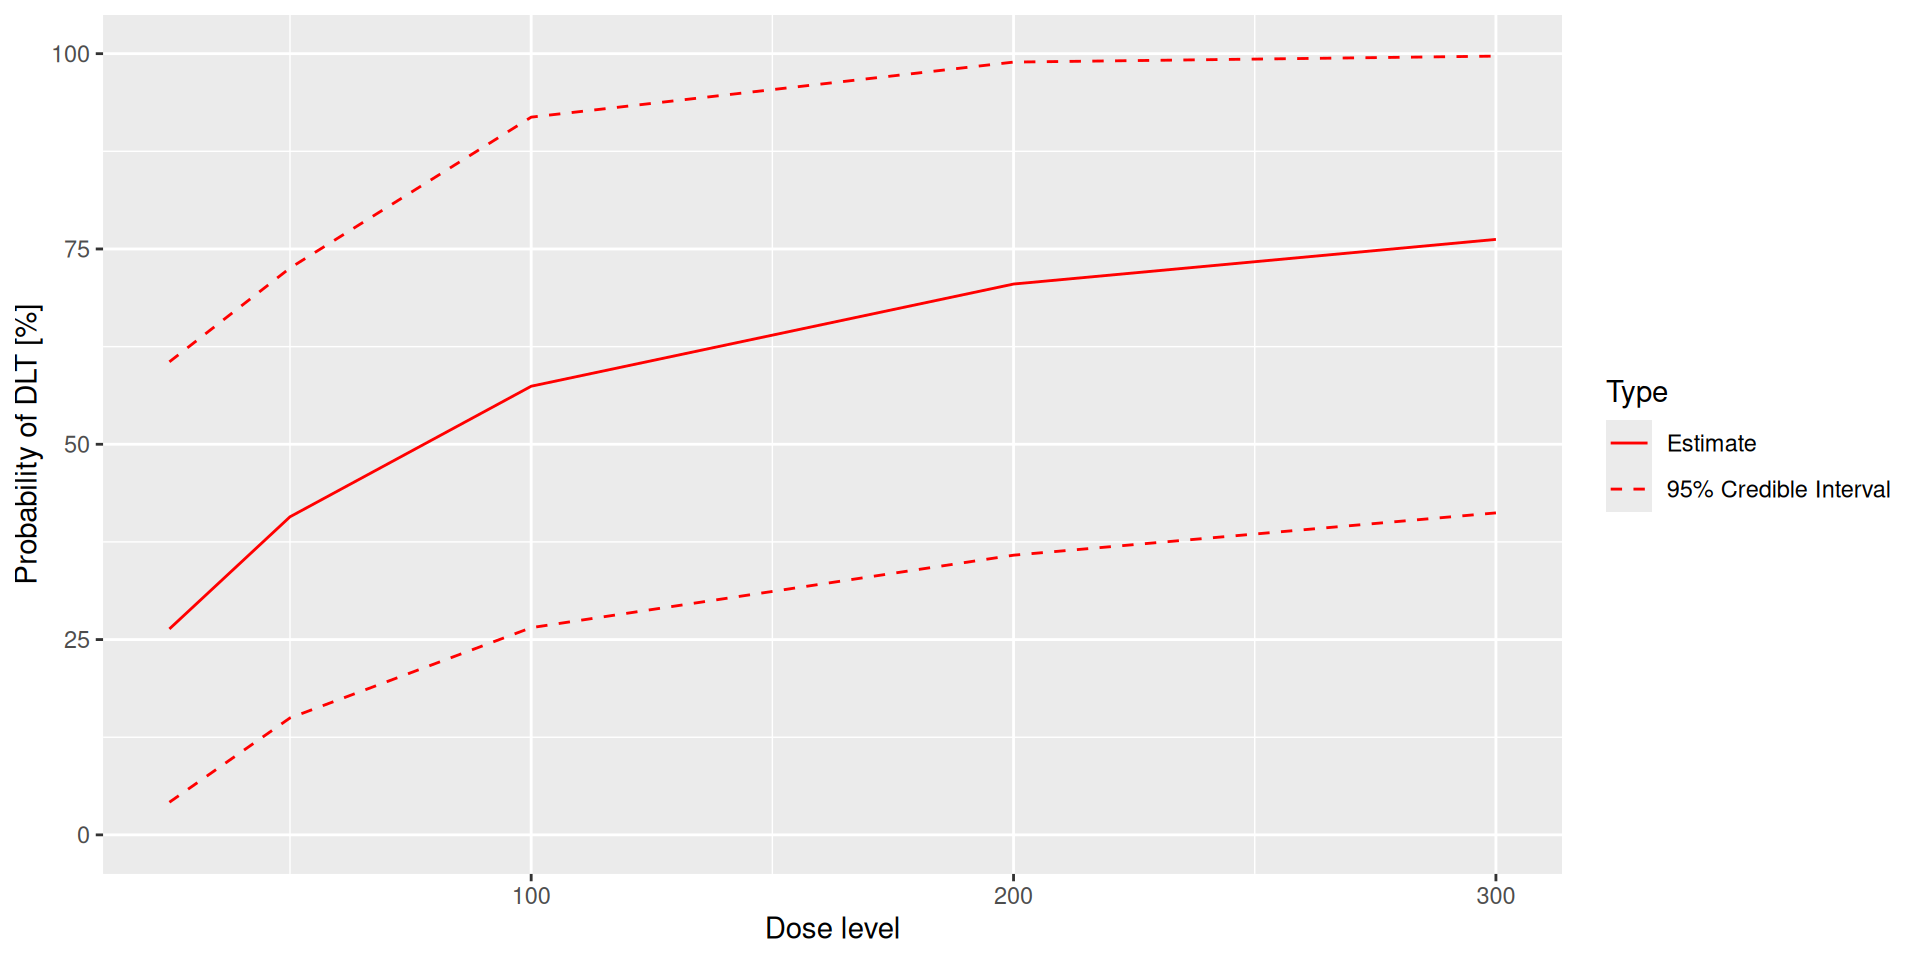
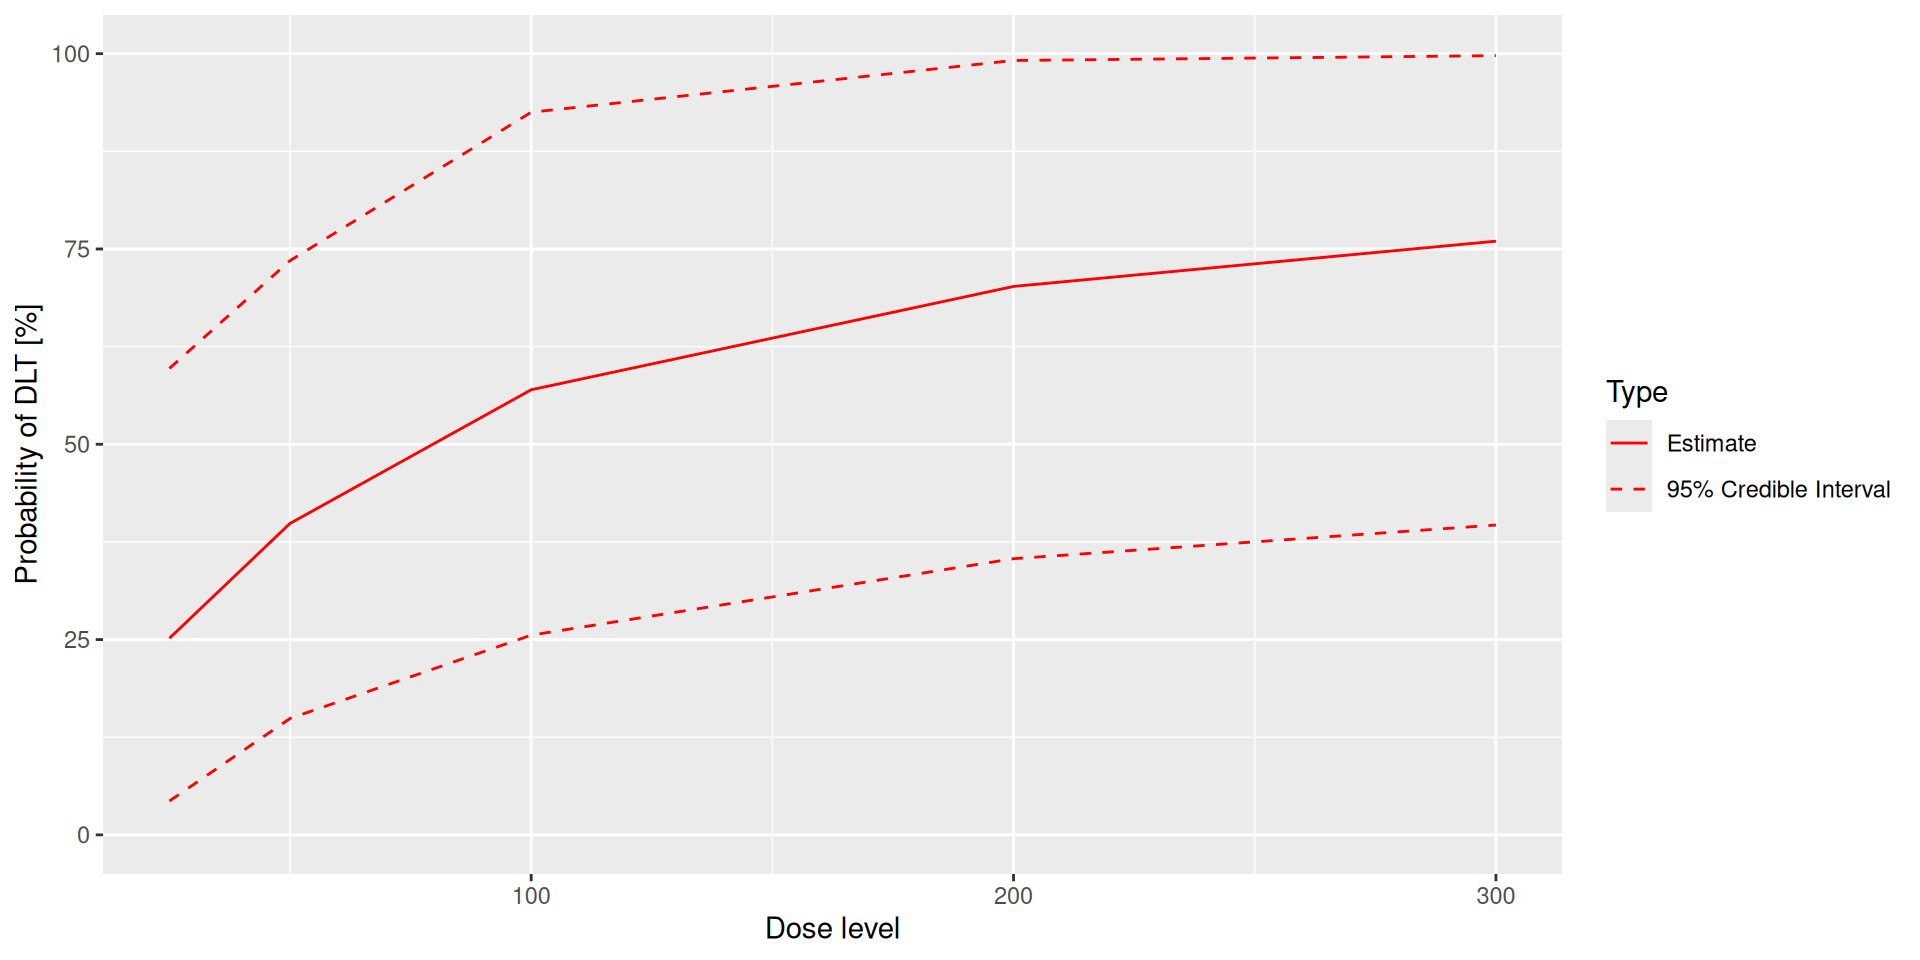
Built site for gh-pages

diff --git a/parts/02_advanced.html b/parts/02_advanced.html
@@ -289,18 +289,16 @@ Daniel Sabanés Bové
 <span id="cb1-9"><a aria-hidden="true" tabindex="-1"></a>  <span class="at">control =</span> <span class="fu">list</span>(<span class="at">max.time =</span> <span class="dv">30</span>) <span class="co"># limit the optimization time here</span></span>
 <span id="cb1-10"><a aria-hidden="true" tabindex="-1"></a>)</span></code></pre></div><button title="Copy to Clipboard" class="code-copy-button"><i class="bi"></i></button></div>
 <div class="cell-output cell-output-stdout">
-<pre><code>It: 1, obj value (lsEnd): 0.07142670344 indTrace: 1
-It: 351, obj value (lsEnd): 0.03540073469 indTrace: 351
-It: 370, obj value (lsEnd): 0.01526062805 indTrace: 370
-It: 377, obj value (lsEnd): 0.01507283033 indTrace: 377
-It: 395, obj value (lsEnd): 0.01445789659 indTrace: 395
-It: 577, obj value (lsEnd): 0.0127023889 indTrace: 577
-timeSpan = 32.113298 maxTime = 30
-Emini is: 0.0127023889
+<pre><code>It: 1, obj value (lsEnd): 0.06732883077 indTrace: 1
+It: 214, obj value (lsEnd): 0.01474025243 indTrace: 214
+It: 238, obj value (lsEnd): 0.01416193999 indTrace: 238
+It: 460, obj value (lsEnd): 0.01295269405 indTrace: 460
+timeSpan = 30.000442 maxTime = 30
+Emini is: 0.01295269405
 xmini are:
--1.280320232 0.6589842054 1.264422506 0.08107323782 0.8768339596 
-Totally it used 32.113324 secs
-No. of function call is: 11250</code></pre>
+-1.280026342 0.6618977116 1.254935046 0.1500300078 0.5608228116 
+Totally it used 30.000481 secs
+No. of function call is: 10147</code></pre>
 </div>
 </div>
 </section>
@@ -339,7 +337,7 @@ No. of function call is: 11250</code></pre>
 <div class="code-copy-outer-scaffold"><div class="sourceCode cell-code" id="cb4"><pre class="sourceCode r code-with-copy"><code class="sourceCode r"><span id="cb4-1"><a aria-hidden="true" tabindex="-1"></a>min_result<span class="sc">$</span>model</span></code></pre></div><button title="Copy to Clipboard" class="code-copy-button"><i class="bi"></i></button></div>
 <div class="cell-output-display">
 <p>A logistic log normal model will describe the relationship between dose and toxicity: <math display="block" xmlns="http://www.w3.org/1998/Math/MathML"><semantics><mrow><mi>p</mi><mrow><mo stretchy="true" form="prefix">(</mo><mi>T</mi><mi>o</mi><mi>x</mi><mo stretchy="false" form="prefix">|</mo><mi>d</mi><mo stretchy="true" form="postfix">)</mo></mrow><mo>=</mo><mi>f</mi><mrow><mo stretchy="true" form="prefix">(</mo><mi>X</mi><mo>=</mo><mn>1</mn><mo stretchy="false" form="prefix">|</mo><mi>θ</mi><mo>,</mo><mi>d</mi><mo stretchy="true" form="postfix">)</mo></mrow><mo>=</mo><mfrac><msup><mi>e</mi><mrow><mi>α</mi><mo>+</mo><mi>β</mi><mo>⋅</mo><mi>l</mi><mi>o</mi><mi>g</mi><mrow><mo stretchy="true" form="prefix">(</mo><mi>d</mi><mi>/</mi><msub><mi>d</mi><mrow><mi>r</mi><mi>e</mi><mi>f</mi></mrow></msub><mo stretchy="true" form="postfix">)</mo></mrow></mrow></msup><mrow><mn>1</mn><mo>+</mo><msup><mi>e</mi><mrow><mi>α</mi><mo>+</mo><mi>β</mi><mo>⋅</mo><mi>l</mi><mi>o</mi><mi>g</mi><mrow><mo stretchy="true" form="prefix">(</mo><mi>d</mi><mi>/</mi><msub><mi>d</mi><mrow><mi>r</mi><mi>e</mi><mi>f</mi></mrow></msub><mo stretchy="true" form="postfix">)</mo></mrow></mrow></msup></mrow></mfrac></mrow><annotation encoding="application/x-tex"> p(Tox | d) = f(X = 1 | \theta, d) = \frac{e^{\alpha + \beta \cdot log(d/d_{ref})}}{1 + e^{\alpha + \beta \cdot log(d/d_{ref})}} </annotation></semantics></math>where d<sub>ref</sub> denotes a reference dose.</p>
-<p>The prior for θ is given by<math display="block" xmlns="http://www.w3.org/1998/Math/MathML"><semantics><mrow><mi>𝛉</mi><mo>=</mo><mrow><mo stretchy="true" form="prefix">[</mo><mtable><mtr><mtd columnalign="center" style="text-align: center"><mi>α</mi></mtd></mtr><mtr><mtd columnalign="center" style="text-align: center"><mi>l</mi><mi>o</mi><mi>g</mi><mrow><mo stretchy="true" form="prefix">(</mo><mi>β</mi><mo stretchy="true" form="postfix">)</mo></mrow></mtd></mtr></mtable><mo stretchy="true" form="postfix">]</mo></mrow><mo>∼</mo><mi>N</mi><mrow><mo stretchy="true" form="prefix">(</mo><mrow><mo stretchy="true" form="prefix">[</mo><mtable><mtr><mtd columnalign="center" style="text-align: center"><mi>−</mi><mn>1.28</mn></mtd></mtr><mtr><mtd columnalign="center" style="text-align: center"><mn>0.66</mn></mtd></mtr></mtable><mo stretchy="true" form="postfix">]</mo></mrow><mo>,</mo><mrow><mo stretchy="true" form="prefix">[</mo><mtable><mtr><mtd columnalign="center" style="text-align: center"><mn>1.60</mn></mtd><mtd columnalign="center" style="text-align: center"><mn>0.09</mn></mtd></mtr><mtr><mtd columnalign="center" style="text-align: center"><mn>0.09</mn></mtd><mtd columnalign="center" style="text-align: center"><mn>0.01</mn></mtd></mtr></mtable><mo stretchy="true" form="postfix">]</mo></mrow><mo stretchy="true" form="postfix">)</mo></mrow></mrow><annotation encoding="application/x-tex"> \boldsymbol\theta = \begin{bmatrix}\alpha \\ log(\beta)\end{bmatrix}\sim N \left(\begin{bmatrix}-1.28 \\  0.66\end{bmatrix} , \begin{bmatrix} 1.60 &amp;  0.09 \\ 0.09 &amp;  0.01\end{bmatrix} \right) </annotation></semantics></math></p>
+<p>The prior for θ is given by<math display="block" xmlns="http://www.w3.org/1998/Math/MathML"><semantics><mrow><mi>𝛉</mi><mo>=</mo><mrow><mo stretchy="true" form="prefix">[</mo><mtable><mtr><mtd columnalign="center" style="text-align: center"><mi>α</mi></mtd></mtr><mtr><mtd columnalign="center" style="text-align: center"><mi>l</mi><mi>o</mi><mi>g</mi><mrow><mo stretchy="true" form="prefix">(</mo><mi>β</mi><mo stretchy="true" form="postfix">)</mo></mrow></mtd></mtr></mtable><mo stretchy="true" form="postfix">]</mo></mrow><mo>∼</mo><mi>N</mi><mrow><mo stretchy="true" form="prefix">(</mo><mrow><mo stretchy="true" form="prefix">[</mo><mtable><mtr><mtd columnalign="center" style="text-align: center"><mi>−</mi><mn>1.28</mn></mtd></mtr><mtr><mtd columnalign="center" style="text-align: center"><mn>0.66</mn></mtd></mtr></mtable><mo stretchy="true" form="postfix">]</mo></mrow><mo>,</mo><mrow><mo stretchy="true" form="prefix">[</mo><mtable><mtr><mtd columnalign="center" style="text-align: center"><mn>1.57</mn></mtd><mtd columnalign="center" style="text-align: center"><mn>0.11</mn></mtd></mtr><mtr><mtd columnalign="center" style="text-align: center"><mn>0.11</mn></mtd><mtd columnalign="center" style="text-align: center"><mn>0.02</mn></mtd></mtr></mtable><mo stretchy="true" form="postfix">]</mo></mrow><mo stretchy="true" form="postfix">)</mo></mrow></mrow><annotation encoding="application/x-tex"> \boldsymbol\theta = \begin{bmatrix}\alpha \\ log(\beta)\end{bmatrix}\sim N \left(\begin{bmatrix}-1.28 \\  0.66\end{bmatrix} , \begin{bmatrix} 1.57 &amp;  0.11 \\ 0.11 &amp;  0.02\end{bmatrix} \right) </annotation></semantics></math></p>
 <p>The reference dose will be 100.00.</p>
 </div>
 </div>
@@ -540,7 +538,7 @@ N (
 <div class="cell">
 <div class="code-copy-outer-scaffold"><div class="sourceCode cell-code" id="cb19"><pre class="sourceCode r code-with-copy"><code class="sourceCode r"><span id="cb19-1"><a aria-hidden="true" tabindex="-1"></a><span class="fu">mean</span>(samples_share<span class="sc">@</span>data<span class="sc">$</span>comp <span class="sc">==</span> <span class="dv">2</span>)</span></code></pre></div><button title="Copy to Clipboard" class="code-copy-button"><i class="bi"></i></button></div>
 <div class="cell-output cell-output-stdout">
-<pre><code>[1] 0.573</code></pre>
+<pre><code>[1] 0.5825</code></pre>
 </div>
 </div>
 </section>
@@ -859,7 +857,7 @@ Neuenschwander, B, M Branson, and T Gsponer. 2008. <span>“Critical Aspects of 
         }
           var localhostRegex = new RegExp(/^(?:http|https):\/\/localhost\:?[0-9]*\//);
           var mailtoRegex = new RegExp(/^mailto:/);
-            var filterRegex = new RegExp("https:\/\/crmpack-training\.merck\.2026\.rpact\.com");
+            var filterRegex = new RegExp("https:\/\/merck\.training\.2026\.crmpack\.org");
           var isInternal = (href) => {
               return filterRegex.test(href) || localhostRegex.test(href) || mailtoRegex.test(href);
           }

diff --git a/parts/01_basic.html b/parts/01_basic.html
@@ -718,18 +718,22 @@ Inf
 10   20    1       20 FALSE         0
 11   20    2       20 FALSE         0
 12   20    3       10 FALSE       -50
-13   30    0       60 FALSE       100
+13   30    0       40 FALSE        33
 14   30    1       30 FALSE         0
 15   30    2       20 FALSE       -33
 16   30    3       20 FALSE       -33
-17   60    0      120 FALSE       100
-18   60    1       50 FALSE       -17
-19   60    2       40 FALSE       -33
-20   60    3       30 FALSE       -50
-21  120    0      200 FALSE        67
-22  120    1      140 FALSE        17
-23  120    2       70 FALSE       -42
-24  120    3       50 FALSE       -58</code></pre>
+17   40    0       80 FALSE       100
+18   40    1       40 FALSE         0
+19   40    2       30 FALSE       -25
+20   40    3       20 FALSE       -50
+21   80    0      150 FALSE        88
+22   80    1       80 FALSE         0
+23   80    2       50 FALSE       -38
+24   80    3       40 FALSE       -50
+25  150    0      200 FALSE        33
+26  150    1      140 FALSE        -7
+27  150    2       90 FALSE       -40
+28  150    3       60 FALSE       -60</code></pre>
 </div>
 </div>
 <p>Here it could be also concerning that if we observe 3 DLTs at the starting dose of 5, we still continue with the same dose 5 for the next cohort. The reason here is that the prior is “too confident” that at low doses we have a low DLT probability.</p>
@@ -760,26 +764,22 @@ Inf
 14   20    1       20 FALSE         0
 15   20    2       20 FALSE         0
 16   20    3       10 FALSE       -50
-17   20    0       20 FALSE         0
+17   20    0       30 FALSE        50
 18   20    1       20 FALSE         0
 19   20    2       20 FALSE         0
 20   20    3       20 FALSE         0
-21   20    0       30 FALSE        50
-22   20    1       20 FALSE         0
-23   20    2       20 FALSE         0
-24   20    3       20 FALSE         0
-25   30    0       60 FALSE       100
-26   30    1       30 FALSE         0
-27   30    2       20 FALSE       -33
-28   30    3       20 FALSE       -33
-29   60    0      120 FALSE       100
-30   60    1       70 FALSE        17
-31   60    2       40 FALSE       -33
-32   60    3       30 FALSE       -50
-33  120    0      200 FALSE        67
-34  120    1      120 FALSE         0
-35  120    2       80 FALSE       -33
-36  120    3       60 FALSE       -50</code></pre>
+21   30    0       60 FALSE       100
+22   30    1       30 FALSE         0
+23   30    2       20 FALSE       -33
+24   30    3       20 FALSE       -33
+25   60    0      120 FALSE       100
+26   60    1       50 FALSE       -17
+27   60    2       40 FALSE       -33
+28   60    3       30 FALSE       -50
+29  120    0      200 FALSE        67
+30  120    1      130 FALSE         8
+31  120    2       70 FALSE       -42
+32  120    3       50 FALSE       -58</code></pre>
 </div>
 </div>
 </section>
@@ -1257,7 +1257,7 @@ van Brummelen, EM, AD Huitema, E van Werkhoven, JH Beijnen, and JH Schellens. 20
         }
           var localhostRegex = new RegExp(/^(?:http|https):\/\/localhost\:?[0-9]*\//);
           var mailtoRegex = new RegExp(/^mailto:/);
-            var filterRegex = new RegExp("https:\/\/crmpack-training\.merck\.2026\.rpact\.com");
+            var filterRegex = new RegExp("https:\/\/merck\.training\.2026\.crmpack\.org");
           var isInternal = (href) => {
               return filterRegex.test(href) || localhostRegex.test(href) || mailtoRegex.test(href);
           }

diff --git a/listing.html b/listing.html
@@ -223,7 +223,7 @@ window.Quarto = {
 
 <div class="quarto-listing quarto-listing-container-default" id="listing-listing">
 <div class="list quarto-listing-default">
-<div class="quarto-post image-right" data-index="0" data-listing-date-sort="1774915200000" data-listing-file-modified-sort="1772458877912" data-listing-date-modified-sort="NaN" data-listing-reading-time-sort="11" data-listing-word-count-sort="2187">
+<div class="quarto-post image-right" data-index="0" data-listing-date-sort="1774915200000" data-listing-file-modified-sort="1772519771701" data-listing-date-modified-sort="NaN" data-listing-reading-time-sort="11" data-listing-word-count-sort="2187">
 <div class="thumbnail"><a href="./parts/01_basic.html" class="no-external">
 
 <img loading="lazy" src="./figures/illustration/exercise.jpg" class="thumbnail-image">
@@ -251,7 +251,7 @@ Daniel Sabanés Bové
 </a>
 </div>
 </div>
-<div class="quarto-post image-right" data-index="1" data-listing-date-sort="1774915200000" data-listing-file-modified-sort="1772458877913" data-listing-date-modified-sort="NaN" data-listing-reading-time-sort="6" data-listing-word-count-sort="1109">
+<div class="quarto-post image-right" data-index="1" data-listing-date-sort="1774915200000" data-listing-file-modified-sort="1772519771703" data-listing-date-modified-sort="NaN" data-listing-reading-time-sort="6" data-listing-word-count-sort="1109">
 <div class="thumbnail"><a href="./parts/02_advanced.html" class="no-external">
 
 <img loading="lazy" src="./figures/illustration/refatoring_Antoni-Shkraba.jpg" class="thumbnail-image">
@@ -355,7 +355,7 @@ Daniel Sabanés Bové
     }
       var localhostRegex = new RegExp(/^(?:http|https):\/\/localhost\:?[0-9]*\//);
       var mailtoRegex = new RegExp(/^mailto:/);
-        var filterRegex = new RegExp("https:\/\/crmpack-training\.merck\.2026\.rpact\.com");
+        var filterRegex = new RegExp("https:\/\/merck\.training\.2026\.crmpack\.org");
       var isInternal = (href) => {
           return filterRegex.test(href) || localhostRegex.test(href) || mailtoRegex.test(href);
       }

diff --git a/additional/pre_read.html b/additional/pre_read.html
@@ -248,7 +248,7 @@ pre > code.sourceCode > span > a:first-child::before { text-decoration: underlin
 </section>
 <section id="course-materials" class="level2">
 <h2 class="anchored" data-anchor-id="course-materials">Course materials</h2>
-<p>The course materials are available at <a href="https://crmpack-training.merck.2026.rpact.com/">crmpack-training.merck.2026.rpact.com/</a>. You can also find the materials on GitHub at <a href="https://github.com/rpact-com/presentation-2026-03-31-merck">github.com/rpact-com/presentation-2026-03-31-merck</a></p>
+<p>The course materials are available at <a href="https://merck.training.2026.crmpack.org/">merck.training.2026.crmpack.org</a>. You can also find the materials on GitHub at <a href="https://github.com/rpact-com/presentation-2026-03-31-merck">github.com/rpact-com/presentation-2026-03-31-merck</a></p>
 </section>
 <section id="thank-you-and-see-you-soon" class="level2">
 <h2 class="anchored" data-anchor-id="thank-you-and-see-you-soon">Thank you and see you soon!</h2>
@@ -332,7 +332,7 @@ pre > code.sourceCode > span > a:first-child::before { text-decoration: underlin
     }
       var localhostRegex = new RegExp(/^(?:http|https):\/\/localhost\:?[0-9]*\//);
       var mailtoRegex = new RegExp(/^mailto:/);
-        var filterRegex = new RegExp("https:\/\/crmpack-training\.merck\.2026\.rpact\.com");
+        var filterRegex = new RegExp("https:\/\/merck\.training\.2026\.crmpack\.org");
       var isInternal = (href) => {
           return filterRegex.test(href) || localhostRegex.test(href) || mailtoRegex.test(href);
       }

diff --git a/index.html b/index.html
@@ -193,7 +193,7 @@ ul.task-list li input[type="checkbox"] {
 
 
 <p><strong>Welcome to the crmPack Training for Merck!</strong></p>
-<p>This website is accessible at <a href="https://crmpack-training.merck.2026.rpact.com">crmPack Training for Merck</a>.</p>
+<p>This website is accessible at <a href="https://merck.training.2026.crmpack.org">crmPack Training for Merck</a>.</p>
 <p><strong>Details</strong></p>
 <ul>
 <li>🧑💻 Presenter: Daniel Sabanés Bové (<a href="https://www.rpact.com">RPACT GmbH</a>)</li>
@@ -291,7 +291,7 @@ ul.task-list li input[type="checkbox"] {
     }
       var localhostRegex = new RegExp(/^(?:http|https):\/\/localhost\:?[0-9]*\//);
       var mailtoRegex = new RegExp(/^mailto:/);
-        var filterRegex = new RegExp("https:\/\/crmpack-training\.merck\.2026\.rpact\.com");
+        var filterRegex = new RegExp("https:\/\/merck\.training\.2026\.crmpack\.org");
       var isInternal = (href) => {
           return filterRegex.test(href) || localhostRegex.test(href) || mailtoRegex.test(href);
       }
